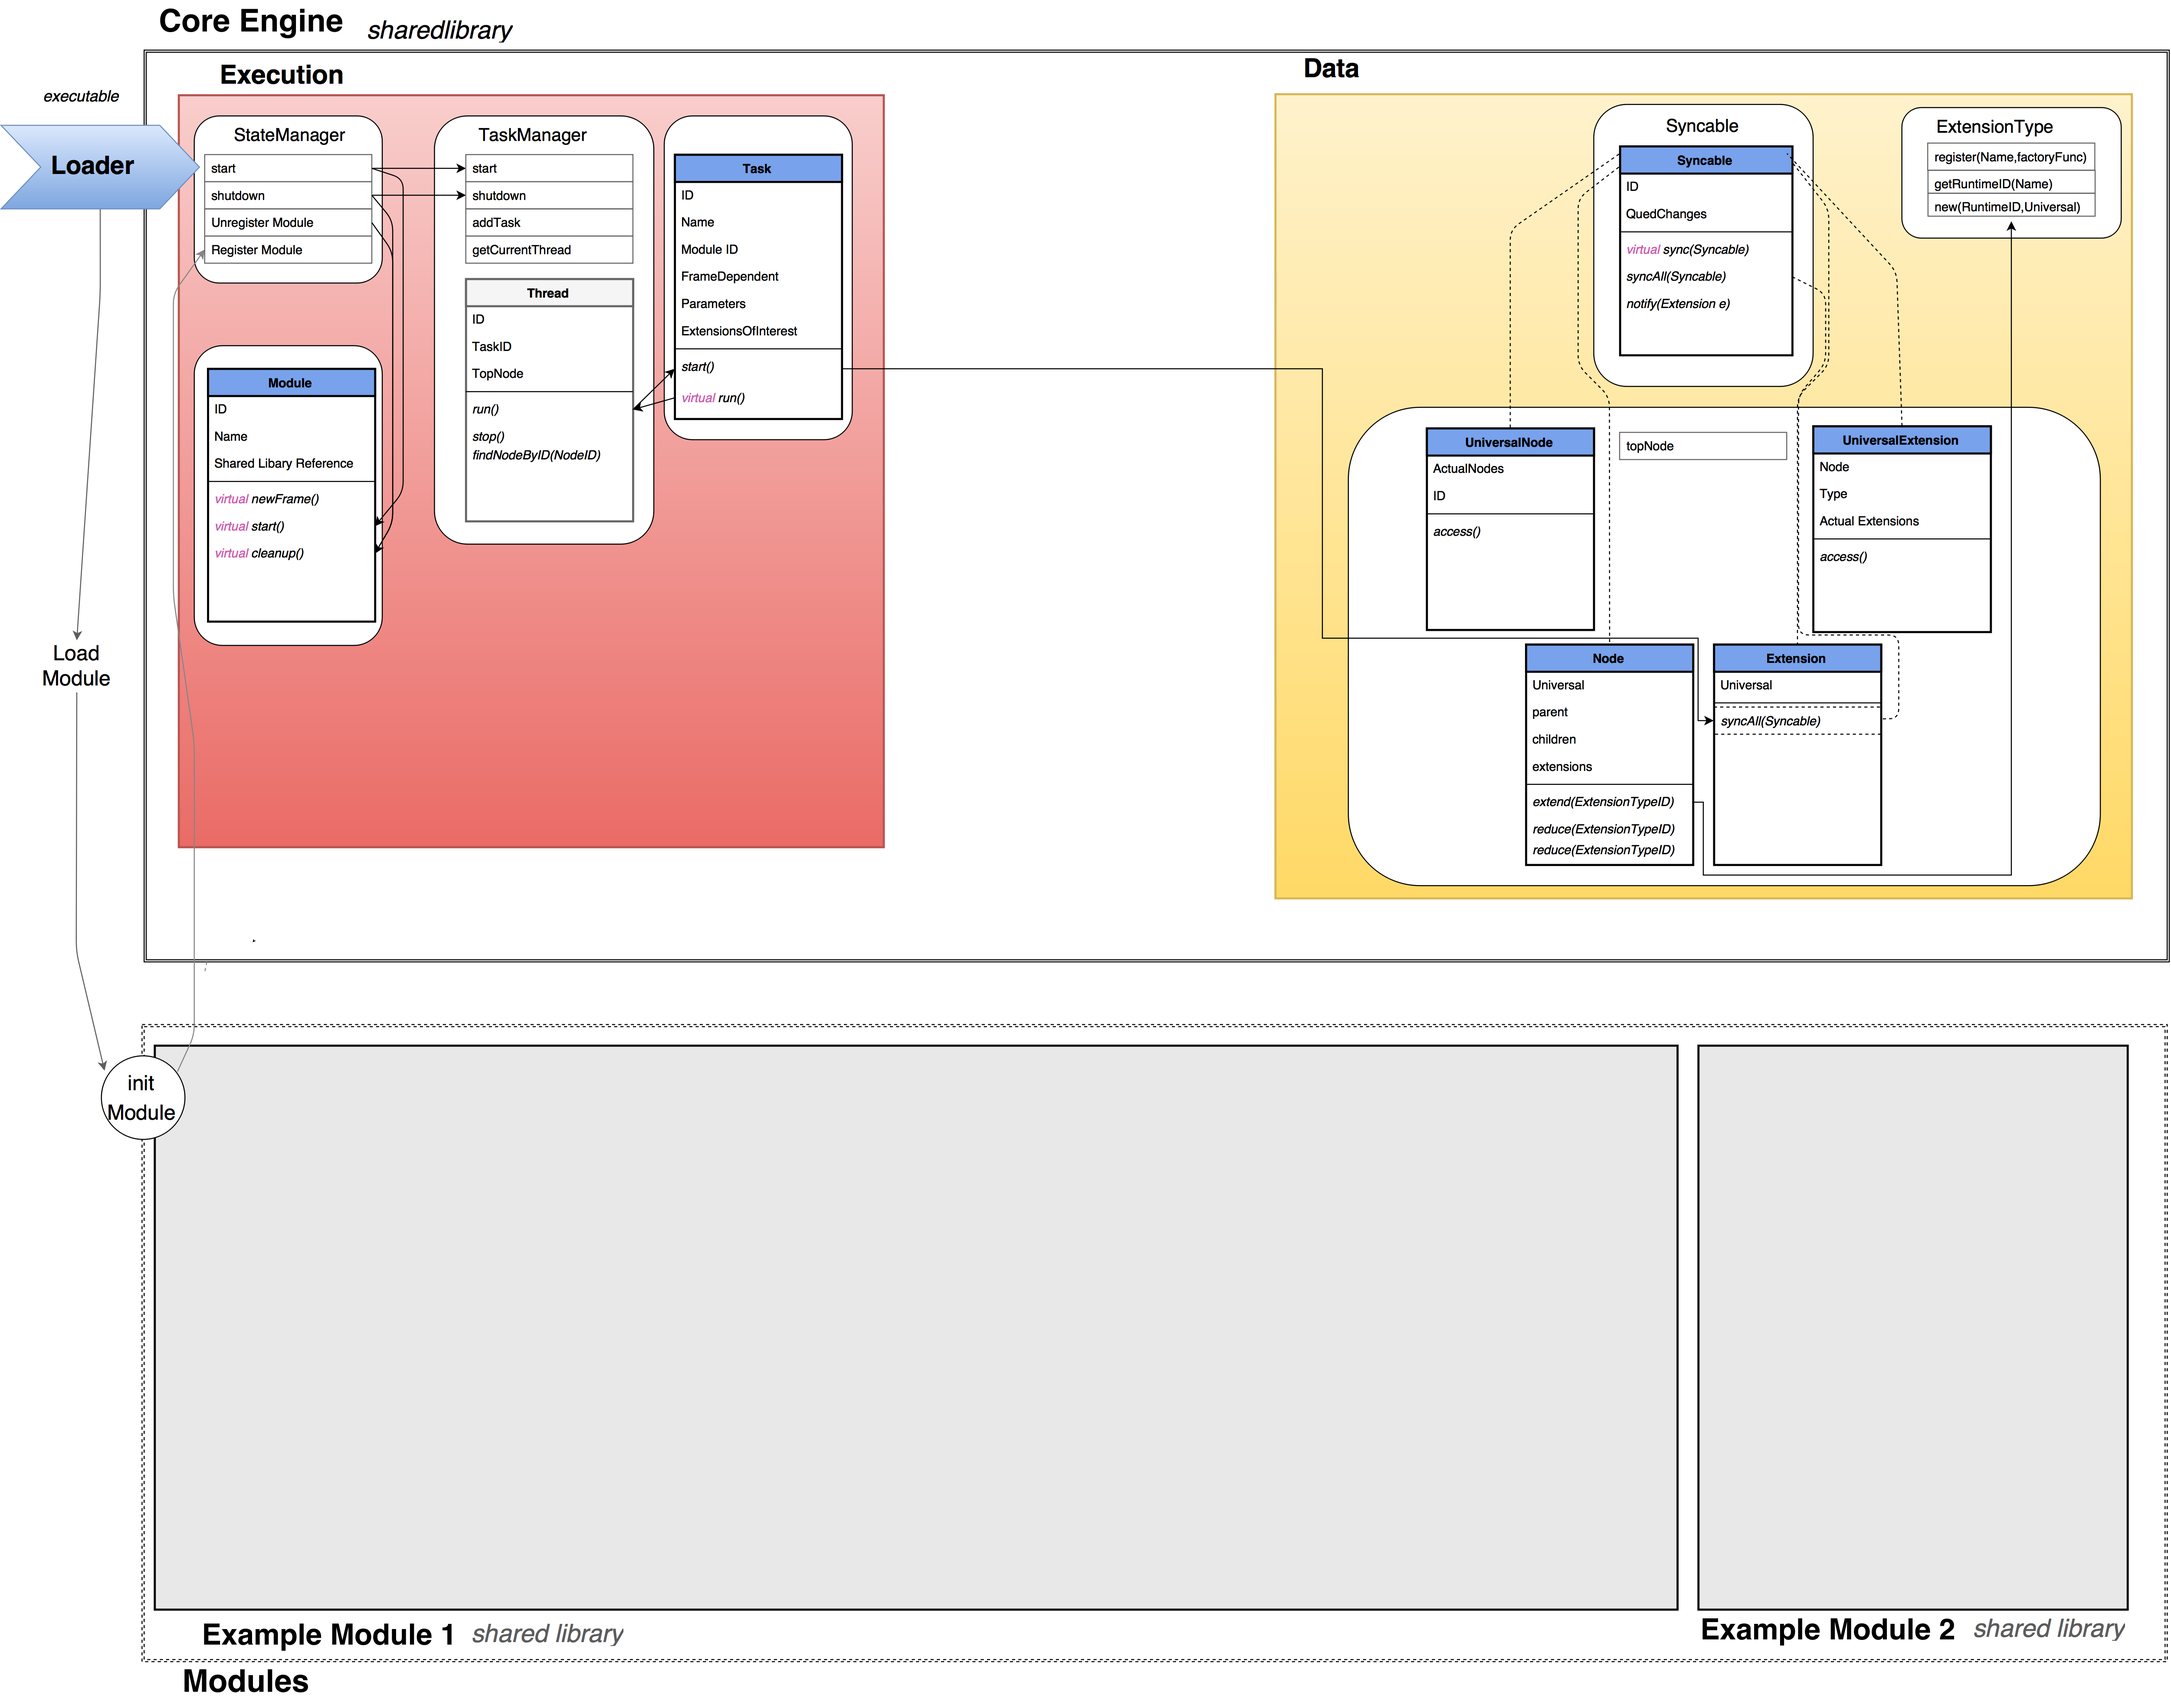
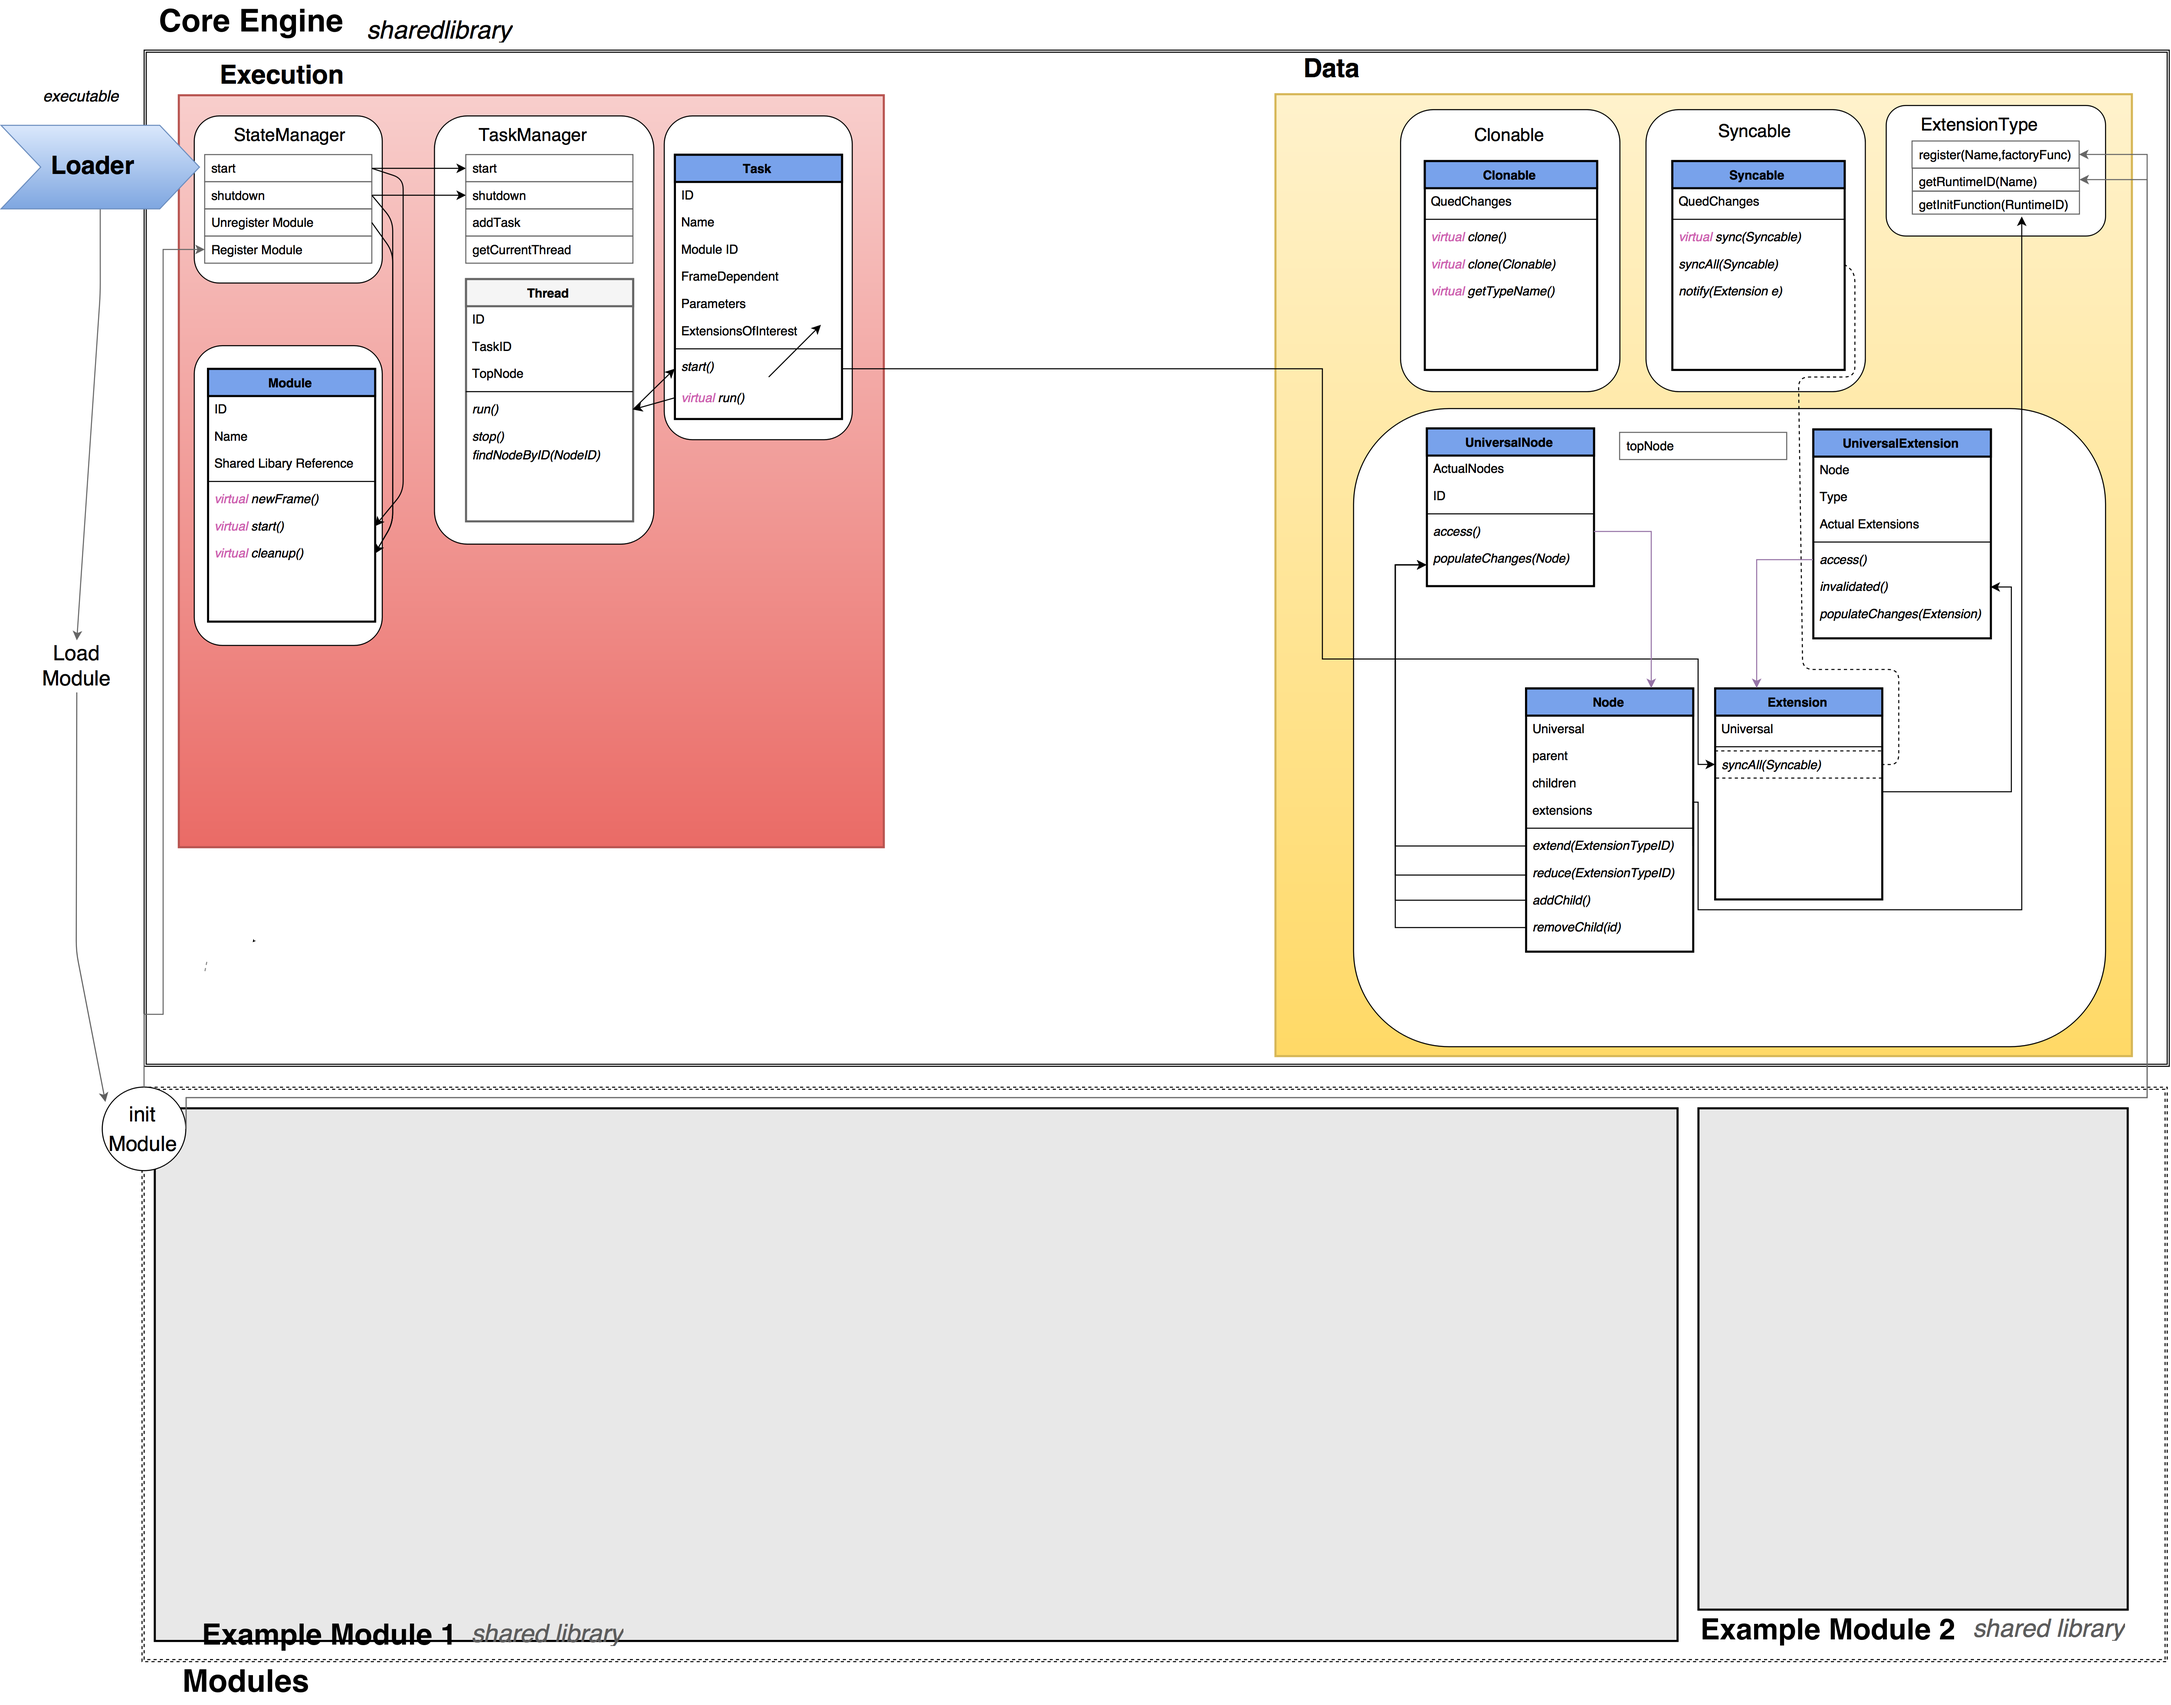
Accounted for deletion of shared data and optimized Synchronizing process

Changed region(s): [[0.0312, 0.0621, 1.0, 0.683], [0.6547, 0.3415, 0.6859, 0.3725], [0.5923, 0.3725, 0.6235, 0.4036]]

diff --git a/CoreEngine/src/Data/ExtensionType.cpp b/CoreEngine/src/Data/ExtensionType.cpp
@@ -6,20 +6,30 @@
  */
 #include "ExtensionType.hpp"
 #include "vector"
+#include "string"
 #include "Data.hpp"
 
 
 namespace Data{
 	namespace ExtensionType{
 		std::vector<ExtensionInitFunction> ExtensionTypes = std::vector<ExtensionInitFunction>();
+		std::vector<std::string> names = std::vector<std::string>();
 
-		ExtensionTypeID registerExtensionType(ExtensionInitFunction func){
+		ExtensionTypeID registerExtensionType(ExtensionInitFunction func,std::string name){
 			ExtensionTypes.push_back(func);
 			return ExtensionTypes.size()-1;
 		}
 		ExtensionInitFunction getInitFunction(ExtensionTypeID id){
 			return ExtensionTypes[id];
+		}
+		ExtensionTypeID getRuntimeID(std::string name){
+			int i = 0;
+			while(i < names.size()){
+				if(names[i].compare(name))return i;
+				i++;
 			}
+			return -1;
+		}
 
 		}
 	}

diff --git a/CoreEngine/src/Data/Data.hpp b/CoreEngine/src/Data/Data.hpp
@@ -10,6 +10,7 @@
  #include <stdint.h>
 #include "Syncable.hpp"
 #include "vector"
+#include <memory>
 
 namespace Data{
 	typedef uint_fast64_t NodeID	 ;
@@ -63,9 +64,9 @@ namespace Data{
 		  friend class Universal::Extension;
 		protected:
 			Universal::Node& Universal;
-			std::vector<Universal::Node> children;
+			std::vector<std::shared_ptr<Universal::Node>> children;
 			Universal::Node& parent;
-			std::vector<Universal::Extension> extensions;
+			std::vector<std::shared_ptr<Universal::Extension>> extensions;
 			Node(Universal::Node& Universal);
 
 		public:

diff --git a/CoreEngine/src/Data/ExtensionType.hpp b/CoreEngine/src/Data/ExtensionType.hpp
@@ -14,8 +14,10 @@ namespace Data{
 	typedef Data::Extension *(*ExtensionInitFunction)(Universal::Extension);
 
 	namespace ExtensionType{
-	ExtensionTypeID registerExtensionType(ExtensionInitFunction);
+	ExtensionTypeID registerExtensionType(ExtensionInitFunction,std::string);
 	ExtensionInitFunction getInitFunction(ExtensionTypeID id);
+	ExtensionTypeID getRuntimeID(std::string);
+
 }
 }
 

diff --git a/CoreEngine/src/Data/Syncable.hpp b/CoreEngine/src/Data/Syncable.hpp
@@ -14,12 +14,12 @@ namespace Data {
 class Syncable: public Clonable{
 public:
 	Syncable();
-	virtual void sync(Syncable&) = 0;
+	virtual void sync(Clonable&) = 0;
 	void syncAll() ;
-	void notify(Syncable&) ;
+	void notify(Clonable&) ;
 
 protected:
-	boost::lockfree::queue<Syncable *> changesLeft;
+	boost::lockfree::queue<Clonable *> changesLeft;
 };
 
 } /* namespace Data */

diff --git a/CoreEngine/src/Data/Syncable.cpp b/CoreEngine/src/Data/Syncable.cpp
@@ -16,8 +16,8 @@ void Syncable::syncAll(){
 	}
 
 }
-void Syncable::notify(Syncable &changedVersion){
-	changesLeft.push((Syncable  *)changedVersion.clone());
+void Syncable::notify(Clonable &changedVersion){
+	changesLeft.push(changedVersion.clone());
 }
 Syncable::Syncable(): changesLeft(){
 
